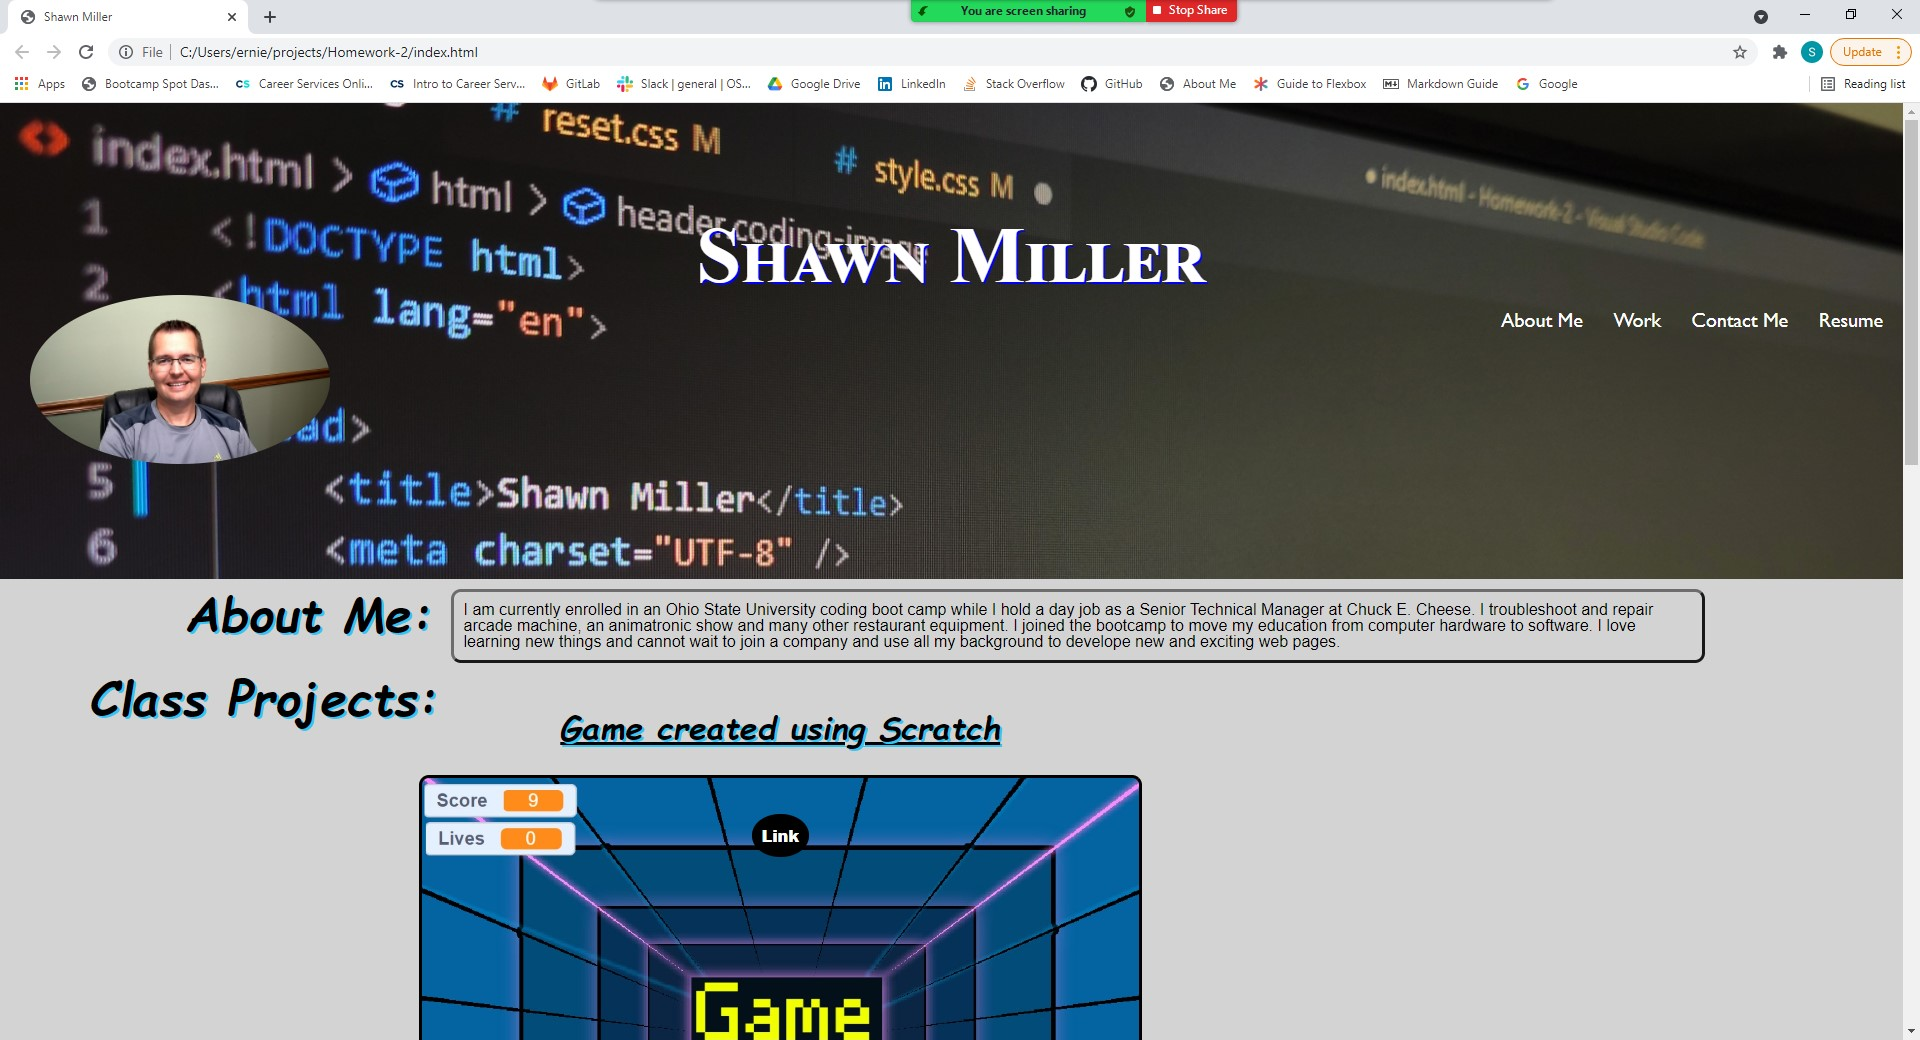
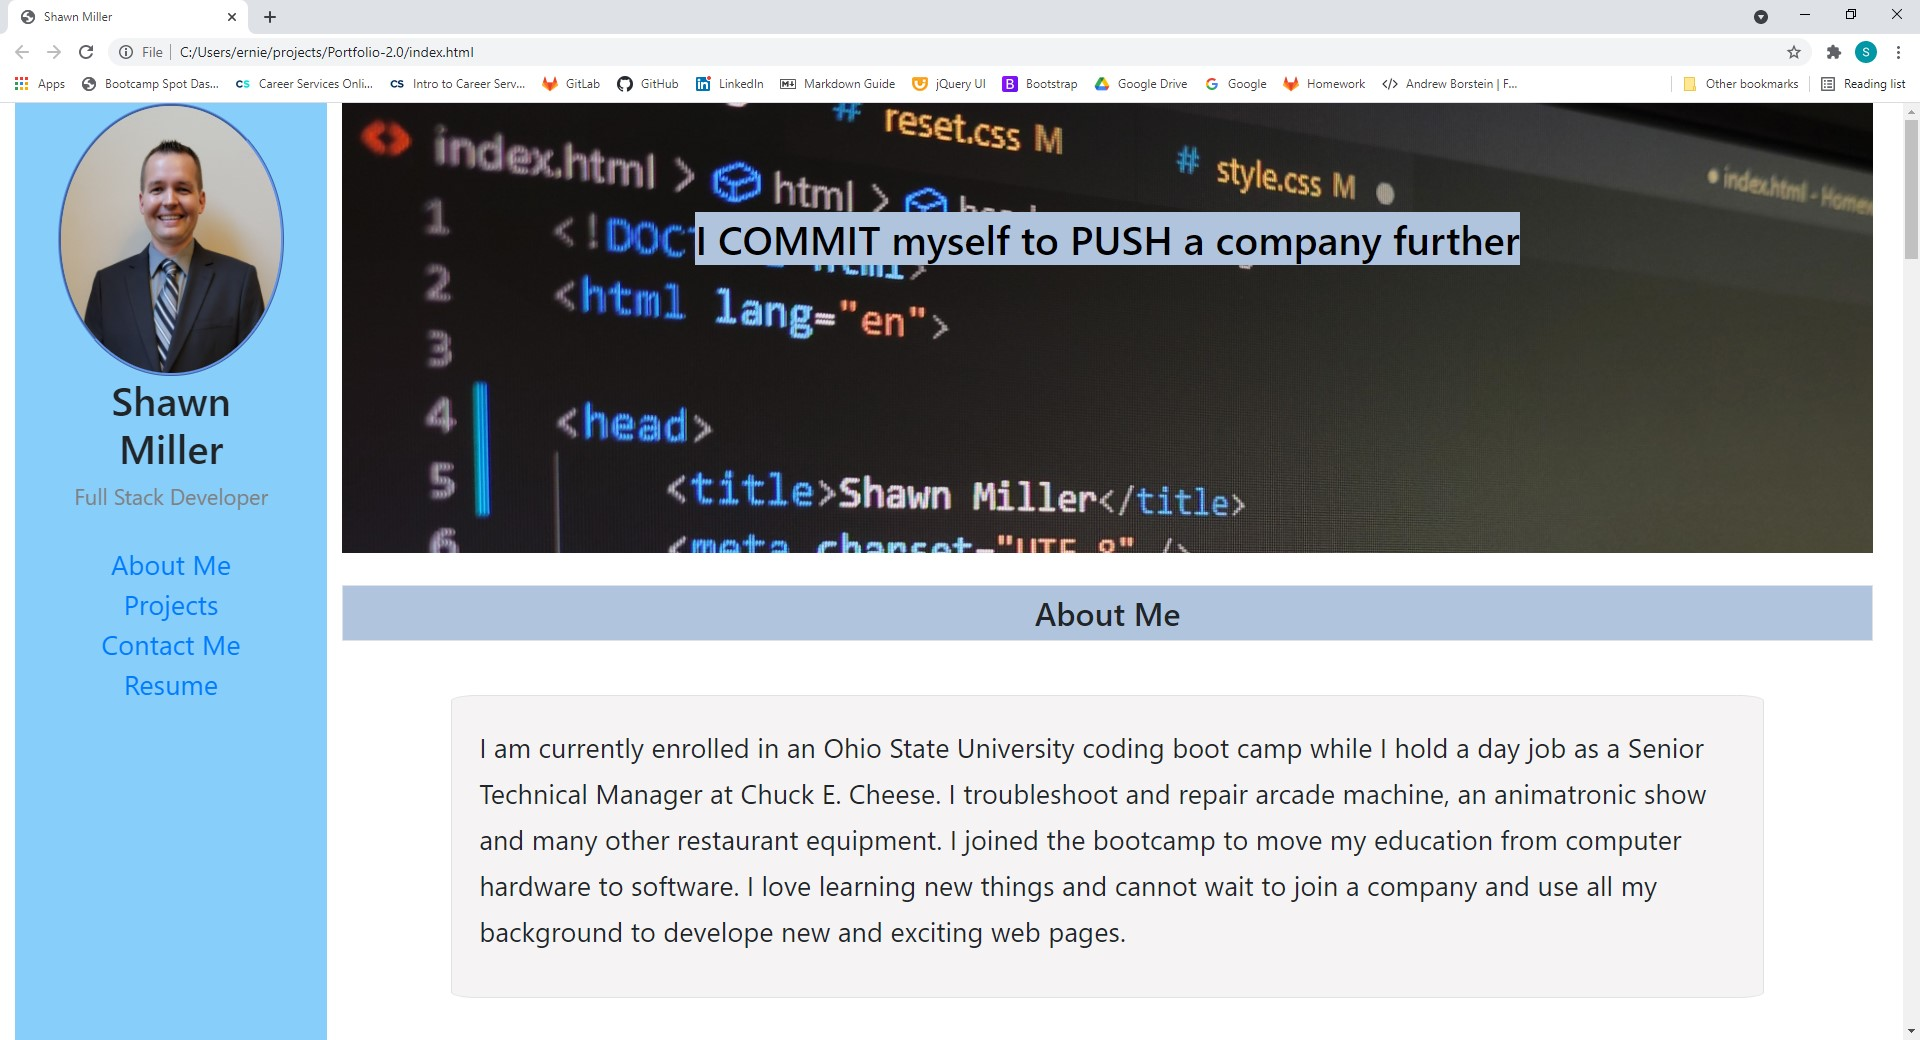
Finished product

diff --git a/index.html b/index.html
@@ -5,7 +5,15 @@
     <title>Shawn Miller</title>
     <meta charset="UTF-8" />
     <meta name="viewport" content="width=device-width, initial-scale=1" />
-    <link rel="stylesheet" type="text/css" href="./assets/css/reset.css" />
+    <link 
+        rel="stylesheet" type="text/css" href="./assets/css/reset.css"
+    />
+    <link
+      rel="stylesheet"
+      href="https://use.fontawesome.com/releases/v5.8.1/css/all.css"
+      integrity="sha384-50oBUHEmvpQ+1lW4y57PTFmhCaXp0ML5d60M1M7uH2+nqUivzIebhndOJK28anvf"
+      crossorigin="anonymous"
+    />
     <link
       rel="stylesheet"
       href="https://stackpath.bootstrapcdn.com/bootstrap/4.3.1/css/bootstrap.min.css"
@@ -13,109 +21,109 @@
     <link rel="stylesheet" type="text/css" href="./assets/css/style.css" />
 </head>
 <body>
-    <div class="row">
-        <nav class="col-2 text-center">
-            <ul>
-                <li class="my-name">
-                    <img src="./assets/img/shawn.jpg">
-                    <h1>Shawn<br>Miller</h2>
-                    <div class="title">Full Stack Developer<br><br></div>
-                </li>
+    <div class="container-fluid">
+        <div class="row m-0 p-0 w-100">
+            <nav class="col-2 text-center">
+                <ul>
+                    <li class="my-name">
+                        <img src="./assets/img/shawn.jpg">
+                        <h1>Shawn<br>Miller</h2>
+                        <div class="title">Full Stack Developer<br><br></div>
+                    </li>
+                    
+                    <li>
+                        <a href="#about-me">About Me</a>
+                    </li>
+                    <li>
+                        <a href="#class-projects">Projects</a>
+                    </li>
+                    <li>    
+                        <a href="#contact-me">Contact Me</a>
+                    </li>
+                    <li>
+                        <a href="./assets/files/Miller,Shawn Resume.pdf" target="_blank">Resume</a>
+                    </li>
                 
-                <li>
-                    <a href="#about-me">About Me</a>
-                </li>
-                <li>
-                    <a href="#class-projects">Projects</a>
-                </li>
-                <li>    
-                    <a href="#contact-me">Contact Me</a>
-                </li>
-                <li>
-                    <a href="./assets/files/Miller,Shawn Resume.pdf" target="_blank">Resume</a>
-                </li>
-            
-            </ul>
-        </nav>
-    <main class="col-10 mborder">
+                </ul>
+            </nav>
+            <main class="col-xs-12 col-10 mborder">
 
-        <header class="coding-image">
-            <h1 class="text-center">I COMMIT myself<br>to PUSH a company further</h1>
-            
-            
-        </header>
-        
-        <section id="about-me">
-            <h2 class="text-center p-2 border">About Me</h2>                
-            <article class="border">
-            <p>I am currently enrolled in an Ohio State University coding boot camp while I hold a day job as a Senior Technical Manager at Chuck E. Cheese.  I troubleshoot and repair arcade machine, an animatronic show and many other restaurant equipment. I joined the bootcamp to move my education from computer hardware to software. I love learning new things and cannot wait to join a company and use all my background to develope new and exciting web pages. </p>
-            </article>
-        </section>
+                <header class="coding-image">
+                    <h1 class="text-center"><span> I COMMIT myself to PUSH a company further </span></h1>
+                    
+                    
+                </header>
+                
+                <section id="about-me">
+                    <h2 class="text-center p-2 border">About Me</h2>                
+                    <article class="border">
+                    <p>I am currently enrolled in an Ohio State University coding boot camp while I hold a day job as a Senior Technical Manager at Chuck E. Cheese.  I troubleshoot and repair arcade machine, an animatronic show and many other restaurant equipment. I joined the bootcamp to move my education from computer hardware to software. I love learning new things and cannot wait to join a company and use all my background to develope new and exciting web pages. </p>
+                    </article>
+                </section>
 
-        <section id="class-projects">
-            
-            <h2 class="text-center p-2 border">Class Projects</h2>            
-            <article id="passwordGenerator" class="border">
-                <h3 class="text-center p-2">Password Generator</h3>                
-                <a href="https://shawn52409.github.io/Password-generator/" target="_blank"><img src="assets/img/password-generator-screenshot.jpg"></a>                
-                <a href="https://github.com/Shawn52409/Password-generator" target="_blank"><br>Password Generator Repo Link</a>
-                <div class="border"></div>
+                <section id="class-projects">
+                    
+                    <h2 class="text-center p-2 border">Class Projects</h2>            
+                    <article id="passwordGenerator" class="border">
+                        <h3 class="text-center p-2">Password Generator</h3>                
+                        <a href="https://shawn52409.github.io/Password-generator/" target="_blank"><img src="assets/img/password-generator-screenshot.jpg"></a>                
+                        <a href="https://github.com/Shawn52409/Password-generator" target="_blank"><br>Password Generator Repo Link</a>
+                        <div class="border"></div>
 
-                <p>This website was made to generator random passwords based on the criteria given by prompts that a user answers.<br>
+                        <p>This website was made to generator random passwords based on the criteria given by prompts that a user answers.<br>
 
-                    The criteria that is asked to the user is:<br>
-                    - Number of characters needed for the password be (8 -128).<br>
-                    - Use of uppercase letters?<br>
-                    - Use of lowercase letters?<br>
-                    - Use of special characters?<br>
-                    - Use of numbers?
-                </p>
-            </article>
+                            The criteria that is asked to the user is:<br>
+                            - Number of characters needed for the password be (8 -128).<br>
+                            - Use of uppercase letters?<br>
+                            - Use of lowercase letters?<br>
+                            - Use of special characters?<br>
+                            - Use of numbers?
+                        </p>
+                    </article>
 
-            <article id="weatherDashboard" class="border">
-                <h3 class="text-center p-2">Weather Dashboard</h3>                
-                <a href="https://shawn52409.github.io/Weather-Dashboard/" target="_blank"><img src="assets/img/weather-dashboard-screenshot.jpg"></a>                
-                <a href="https://github.com/Shawn52409/Weather-Dashboard" target="_blank"><br>Weather Dashboard Repo Link</a>
-                <div class="border"></div>
+                    <article id="weatherDashboard" class="border">
+                        <h3 class="text-center p-2">Weather Dashboard</h3>                
+                        <a href="https://shawn52409.github.io/Weather-Dashboard/" target="_blank"><img src="assets/img/weather-dashboard-screenshot.jpg"></a>                
+                        <a href="https://github.com/Shawn52409/Weather-Dashboard" target="_blank"><br>Weather Dashboard Repo Link</a>
+                        <div class="border"></div>
 
-                <p>This website was made to give a user a way to search a city and find the current weather of that city which includes the date, weather forecast icon with description, current temperature, wind speed, Humidity and UV index by number and color depending on the level of severity.  Below the current weather the user will find a five day forecast that will show weather forecast icon with description, temperature, wind speed humidity for each of the five days.  The searches will save to local storage and create a button below the search bar.  When clicked on the previous search button the weather for the city displayed in the button will display again.  There is also an included clear history button to remove all previous searches.
-                </p>
-            </article>
+                        <p>This website was made to give a user a way to search a city and find the current weather of that city which includes the date, weather forecast icon with description, current temperature, wind speed, Humidity and UV index by number and color depending on the level of severity.  Below the current weather the user will find a five day forecast that will show weather forecast icon with description, temperature, wind speed humidity for each of the five days.  The searches will save to local storage and create a button below the search bar.  When clicked on the previous search button the weather for the city displayed in the button will display again.  There is also an included clear history button to remove all previous searches.
+                        </p>
+                    </article>
 
-            <article id="codingQuiz" class="border">
-                <h3 class="text-center p-2">Coding Quiz</h3>                
-                <a href="https://shawn52409.github.io/Code-Quiz/" target="_blank"><img src="assets/img/coding-quiz-screenshot.jpg"></a>                
-                <a href="https://github.com/Shawn52409/Code-Quiz.git" target="_blank"><br>Coding Quiz Repo Link</a>
-                <div class="border"></div>
+                    <article id="codingQuiz" class="border">
+                        <h3 class="text-center p-2">Coding Quiz</h3>                
+                        <a href="https://shawn52409.github.io/Code-Quiz/" target="_blank"><img src="assets/img/coding-quiz-screenshot.jpg"></a>                
+                        <a href="https://github.com/Shawn52409/Code-Quiz.git" target="_blank"><br>Coding Quiz Repo Link</a>
+                        <div class="border"></div>
 
-                <p>This website was made create a quiz for a user to take. The user will have sixty seconds to complete ten questions. If a user finishes the questions or time runs out the website will ask the user for their initials and show their result of the quiz. As a user answers the questions the website will display if the answers are correct or incorrect. If an answer is incorrect the user will lose ten seconds from the timer. The users initials will be saved with their score to the local drive. A user can view the high scores from a menu on the left side of the screen.
-                </p>
-            </article>
+                        <p>This website was made create a quiz for a user to take. The user will have sixty seconds to complete ten questions. If a user finishes the questions or time runs out the website will ask the user for their initials and show their result of the quiz. As a user answers the questions the website will display if the answers are correct or incorrect. If an answer is incorrect the user will lose ten seconds from the timer. The users initials will be saved with their score to the local drive. A user can view the high scores from a menu on the left side of the screen.
+                        </p>
+                    </article>
 
-            
-            <article id="project1" class="border">
-                <h3 class="text-center p-2">Group Project (Evening Planner)</h3>                
-                <a href="https://haleywitherell.github.io/Health-Wellness/" target="_blank"><img src="assets/img/health-wellness-screenshot.jpg"></a>                
-                <a href="https://github.com/haleywitherell/Health-Wellness" target="_blank"><br>Health and Wellness Repo Link</a>
-                <div class="border"></div>
+                    
+                    <article id="project1" class="border">
+                        <h3 class="text-center p-2">Health and Wellness Planner<br>(Group Project))</h3>                
+                        <a href="https://haleywitherell.github.io/Health-Wellness/" target="_blank"><img src="assets/img/health-wellness-screenshot.jpg"></a>                
+                        <a href="https://github.com/haleywitherell/Health-Wellness" target="_blank"><br>Health and Wellness Repo Link</a>
+                        <div class="border"></div>
 
-                <p>This website was made to give a user a way to search through foods to create a menu for dinner for one calendar week.  A user will search for any type of food and see 4 results.  Each result will show a photo and text decription of each food product.  The search results will also contain a selector box with a drop down menu for each day of the week.  The user can add a food to a particular day by using the drop down menu.  If a user wants more search results they may enter a new search or click on the "Next Results" button for four more results. A user can had exercises to each day of the week.  A user does this by clicking the "Choose a Workout" button.  This button will display four random exercise results.  Just like the food results a user can add exercises to each day of the week by using the drop down menu selector included with each exercise result.  Any time during the selection process a user can click on the save button on the bottom of a particular day to save their selections to local storage for that day.  A button has also been included to clear the day of all food and exercises and delete that information from local storage.  When you user refreshes the page the items saved to local storage will populate to their correct day.
-                </p>
-            </article>
-            
-        </section>
+                        <p>This website was made to give a user a way to search through foods to create a menu for dinner for one calendar week.  A user will search for any type of food and see 4 results.  Each result will show a photo and text decription of each food product.  The search results will also contain a selector box with a drop down menu for each day of the week.  The user can add a food to a particular day by using the drop down menu.  If a user wants more search results they may enter a new search or click on the "Next Results" button for four more results. A user can had exercises to each day of the week.  A user does this by clicking the "Choose a Workout" button.  This button will display four random exercise results.  Just like the food results a user can add exercises to each day of the week by using the drop down menu selector included with each exercise result.  Any time during the selection process a user can click on the save button on the bottom of a particular day to save their selections to local storage for that day.  A button has also been included to clear the day of all food and exercises and delete that information from local storage.  When you user refreshes the page the items saved to local storage will populate to their correct day.
+                        </p>
+                    </article>            
+                </section>
 
-        <section id="contact-me">
-            <h2 class="text-center p-2 border">Contact Information</h2>  
-            <article id="contact-me" class="border">
-                               
-                <p>Cell Phone: (614) 313-4769</p>
-                <p>Email: shawnsmm@gmail.com</p>
-                <a href="https://www.linkedin.com/in/shawn-miller-b44a36217" target="_blank">LinkedIn</a>
-            </article>
-        </section>
+                <section id="contact-me">
+                    <h2 class="text-center p-2 border">Contact Information</h2>  
+                    <article id="contact-me" class="border">                            
+                        <i class="fas fa-envelope-square"></i><a href="mailto:shawnsmm@gmail.com"> shawnsmm@gmail.com<br></a>
+                        <i class="fab fa-linkedin"></i><a href="https://www.linkedin.com/in/shawn-miller-b44a36217" target="_blank"> www.linkedin.com/in/shawn-miller-b44a36217<br></a>
+                        <i class="fab fa-github"></i><a href="https://github.com/Shawn52409" target="_blank"> github.com/Shawn52409</a>
+                    </article>        
+                </section>
 
-    </main>
-</div>
+            </main>
+        </div>
+    </div>
 </body>
 </html>

diff --git a/assets/css/style.css b/assets/css/style.css
@@ -10,6 +10,8 @@ h2{
     margin-top: 1em;
     background: lightsteelblue;
 }
+
+/* make my photo completely rounded */
 .my-name img{
     border-radius: 100%;
 }
@@ -37,7 +39,7 @@ article{
     border-radius: 2%;
     
 }
-
+/* coding image background */
 .coding-image{
     padding: 7em 0;
     background-image: url(../img/coding.jpg);
@@ -45,6 +47,12 @@ article{
     color: white;
 }
 
+span{
+    background: lightsteelblue;
+    color: black;    
+}
+
+/* formating for all project images */
 img{
     border: ridge;
     border-color: cornflowerblue;
@@ -54,6 +62,7 @@ img{
     width: 80%;      
 }
 
+/* Remove nav side bar and shrink text on smaller devices */
 @media screen and (max-width: 768px) {
 *{
     font-size: .6em;

diff --git a/README.md b/README.md
@@ -4,15 +4,17 @@ Created by Shawn Miller
 # Technologies Used
 - HTML
 - CSS
+- Bootstrap
+- Font Awesome
 
 # Description
-This website was made to show off my accomplishments as a web developer.  On this site you will find projects that I have worked on and links to those projects. You will also fine my contact information and a link to my resume.
+This website was made to show off my accomplishments as a web developer.  On this site you will find projects that I have worked on (includeing a group project) with links to those projects. You will also fine my contact information which includes a link to my email, LinkIn profile, Github repo and a pdf of my resume.
 
 # Appearance
 ![Screenshot of website](./assets/img/screenshot.jpg)
 
 # Known Bugs
-No known bugs, although I will be making changes to tweek the formatting as I learn more languages through out the course.
+No known bugs, although I will be making changes to tweek the formatting as I learn more in this course.
 
 ## Contact info
 shawnsmm@gmail.com
